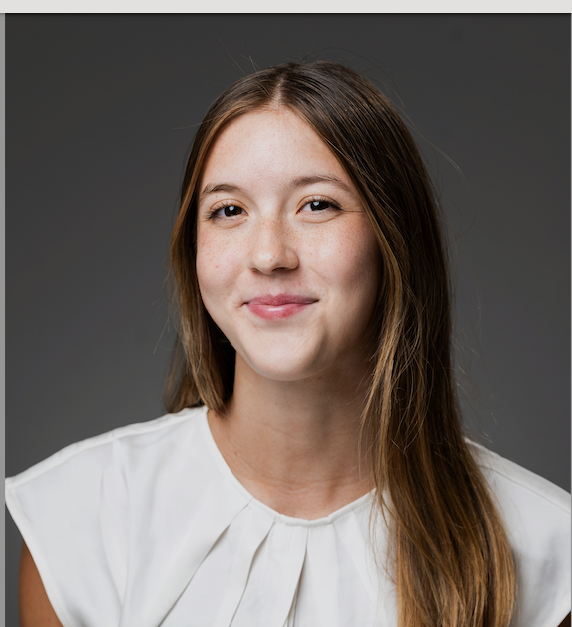
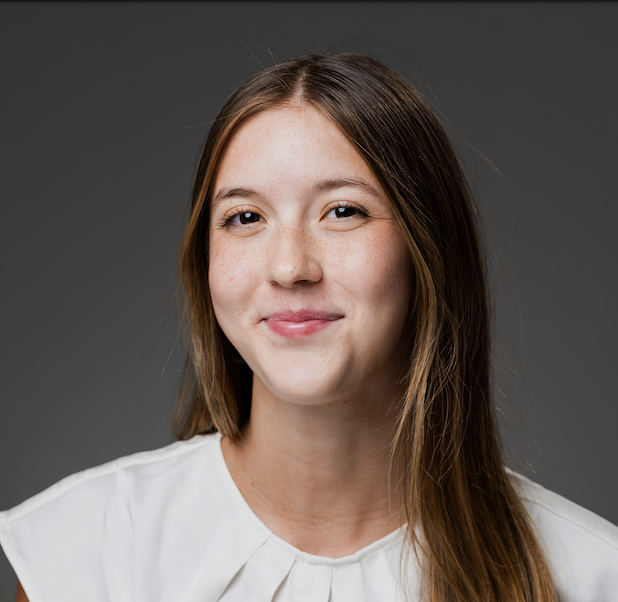
Edited image

diff --git a/docs/index.html b/docs/index.html
@@ -106,7 +106,7 @@ ul.task-list li input[type="checkbox"] {
 <!-- main -->
 <div class="quarto-about-trestles column-page">
   <div class="about-entity">
-    <img src="headshot.jpg" class="about-image
+    <img src="longer_headshot.jpg" class="about-image
   round " style="height: 17em; width: 17em;">
 <header id="title-block-header" class="quarto-title-block default">
 <div class="quarto-title">
